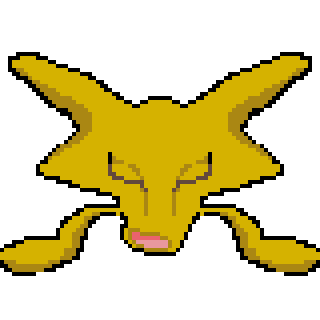
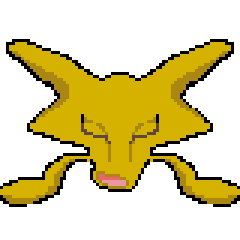
resize pics. Add basic rotating animation

diff --git a/pokeGame.py b/pokeGame.py
@@ -13,7 +13,28 @@ gridWidth =  170
 
 BLACK = (0, 0, 0)
 
+animationSpeed = 15
+centerOffset = 200
+
+locationAngles = [0, 60, 120, 180, 240, 300]
+
+
+locations = [
+    assets.getTrigoFromCenter(0, centerOffset, WINDOWWIDTH, WINDOWHEIGHT),
+    assets.getTrigoFromCenter(60, centerOffset, WINDOWWIDTH, WINDOWHEIGHT),
+    assets.getTrigoFromCenter(120, centerOffset, WINDOWWIDTH, WINDOWHEIGHT),
+    assets.getTrigoFromCenter(180, centerOffset, WINDOWWIDTH, WINDOWHEIGHT),
+    assets.getTrigoFromCenter(240, centerOffset, WINDOWWIDTH, WINDOWHEIGHT),
+    assets.getTrigoFromCenter(300, centerOffset, WINDOWWIDTH, WINDOWHEIGHT)
+    ]
+
+
+
+
+
+
 def main():
+    global FPSCLOCK
     pygame.init()
 
     FPSCLOCK = pygame.time.Clock()
@@ -21,32 +42,62 @@ def main():
     DISPLAYSURF.fill(BLACK)
     pygame.display.set_caption('The PokeBall Game')
 
+    messages = ["He's", "She's", "The cat is", "Tom is", "They're", "I'm"]
+    
+    pokeBalls = generatePokeballs(messages)
 
 
+    spinAnimation(pokeBalls, locationAngles, animationSpeed, DISPLAYSURF)
+    DISPLAYSURF.fill(BLACK)
 
     while True:
+        mouseClick = False
 
         checkForQuit()
+
+        
 
         alakazamImg = assets.alakazam.surface
         alakazamRect = assets.alakazam.rect
 
         alakazamRect.center = (WINDOWWIDTH/2, WINDOWHEIGHT/2)
 
-        messages = ["He's", "She's", "It's", "Tom is", "They're", "I'm"]
         
-        pokeBalls = generatePokeballs(messages)
+        
+        
+
+        # for ball in pokeBalls:
+        #     DISPLAYSURF.blit(ball.surface, ball.rect)
+
+        DISPLAYSURF.blit(alakazamImg, alakazamRect)
+
+
+
+        mouseX, mouseY = pygame.mouse.get_pos()
+
+         
+        for event in pygame.event.get():
+            if event.type == MOUSEBUTTONUP:
+                mouseClick = True
+            
 
         for ball in pokeBalls:
-            DISPLAYSURF.blit(ball.surface, ball.rect)
+            if ball.rect.collidepoint(mouseX, mouseY):
+                if mouseClick:
+                    if ball.state == 'closed':
+                        ball.state = 'open'
+                    elif ball.state == 'open':
+                        ball.state = 'closed'
 
 
         # DISPLAYSURF.blit(pokeBallImg, pokeBallRect)
 
-        DISPLAYSURF.blit(alakazamImg, alakazamRect)
+        # spinAnimation(pokeBalls, locationAngles, animationSpeed, DISPLAYSURF)
+
+        drawPokeBallDefaultLocations(pokeBalls, locationAngles, DISPLAYSURF)
         
 
-        pygame.display.update()
+        pygame.display.flip()
 
         FPSCLOCK.tick(FPS)
 
@@ -67,28 +118,40 @@ def checkForQuit():
 def generatePokeballs(messages):
     random.shuffle(messages)
 
-    locations =((gridWidth*2,gridHeight*2),
-                (gridWidth*2.5,gridHeight), 
-                (gridWidth*3.5, gridHeight), 
-                (gridWidth*4, gridHeight*2), 
-                (gridWidth*3.5, gridHeight*3), 
-                (gridWidth*2.5, gridHeight*3))
-
- 
     pokeObjs = []
-    for n in range(len(locations)):
+    for n in range(len(messages)):
         current = assets.pokeball(assets.pokeballImgs)
         current.message = messages[n]
-        current.state = 'open'
-        pokeRect = current.rect
-        pokeRect.center = locations[n]
+        current.state = 'closed'
         pokeObjs.append(current)
 
     return pokeObjs
 
 
+def drawPokeBallDefaultLocations(pokeballs, locations, targetSurf):
+    for n in range(len(pokeballs)):
+        current = pokeballs[n]
+        current.rect.center = assets.getTrigoFromCenter(locations[n], centerOffset, WINDOWWIDTH, WINDOWHEIGHT)
+        targetSurf.blit(current.surface, current.rect)
 
-     
+def spinAnimation(pokeballs, locations, animationSpeed, targetSurf, rotateTimes=3 ):
+    totalRotation = 360 * rotateTimes
+    origSurf = targetSurf.copy()
+
+    for rotationStep in range(0, totalRotation, animationSpeed):
+        targetSurf.blit(origSurf, (0, 0))
+        for n in range(len(pokeballs)):
+            location = assets.getTrigoFromCenter((locations[n]+rotationStep), centerOffset, WINDOWWIDTH, WINDOWHEIGHT)
+            pokeballs[n].rect.center = location
+            targetSurf.blit(pokeballs[n].surface, pokeballs[n].rect)
+            pygame.display.update()
+        FPSCLOCK.tick(FPS)
+            
+
+
+            
+
+
 
 
 main()

diff --git a/pokeBallAssets.py b/pokeBallAssets.py
@@ -1,4 +1,4 @@
-import pygame, os
+import pygame, os, math
 
 
 
@@ -7,6 +7,10 @@ WHITE           =(255, 255, 255)
 BLACK           =(  0,   0,   0)
 GREEN           =(  0, 200,   0)
 RED             =(255,   0,   0)
+CLEAR           =(  0,   0,   0,   0)
+
+
+backGroundColour = BLACK
 
 pygame.init()
 
@@ -58,19 +62,21 @@ pokeballImgs = {
     'closed' : pygame.image.load(os.path.join(pokeBallPath, 'pokeballClosed.png')),
 }
 
+# quickBall = pokeBallImgs['closed']
 
 def pokeFont(size=20):
     return pygame.font.SysFont('minecraft', size)
 
-pokeBallFont = pokeFont(40)
+pokeBallFont = pokeFont(25)
 
 class pokeball():
-    def __init__(self, pathDict, message=None, state=None, surface=None):
+    def __init__(self, pathDict, message=None, state=None):
         self.path = pathDict
         self.__state = state
         self.__message = message
-        # self.__surface = surface
+        self.__surface = None
         self.rect = self.makeRect()
+       
 
 
     # State Setter/Getter
@@ -95,15 +101,31 @@ class pokeball():
 
     @property
     def surface(self):
+        self.__surface = pygame.Surface((180, 200))
+        self.__surface.convert_alpha
+        self.__surface.fill(CLEAR)
+
         if self.state == 'closed':
-            return self.path['closed']
+            closedBall = self.path['closed']
+            closedBallRect = closedBall.get_rect()
+            closedBallRect.center = (90, 100)
+            self.__surface.blit(closedBall, closedBallRect)
+
+            return self.__surface
+
         else:
             text = pokeBallFont.render(self.message, 1, WHITE)
             messageRect = text.get_rect()
-            messageRect.center = (80, 140)
-            selfSurf = self.path['open'].copy()
-            selfSurf.blit(text, messageRect)
-            return selfSurf
+            messageRect.center = (90, 100)
+
+            openBall = self.path['open'].copy()
+            openBallRect = openBall.get_rect()
+            openBallRect.center = (90, 100)
+
+            self.__surface.blit(openBall, openBallRect)
+            self.__surface.blit(text, messageRect)
+            
+            return self.__surface
 
 
     def makeRect(self):
@@ -137,3 +159,41 @@ class alakazamChar():
         return self.surface.get_rect()
 
 alakazam = alakazamChar(alakazamImg)
+
+
+def degToRadian(deg):
+    return deg * math.pi / 180
+
+def getXcoord(deg, hypo):
+    # The sin of the degree is equal to ANS divided by HYPO
+    # Get sin of degree.
+    # Multiply this number by the HYPO
+    # This will be the length co-ord
+    radA = degToRadian(deg)
+    sinA = math.sin(radA)
+    xLength = sinA * hypo
+
+    return xLength
+
+def getYcoord(deg, hypo):
+    # The same but wit COSINE I think.
+    radA = degToRadian(deg)
+    cosA = math.cos(radA)
+    yLength = cosA * hypo
+    return yLength
+
+def getTrigoXY(deg, hypo):
+    x = getXcoord(deg, hypo)
+    y = getYcoord(deg, hypo)
+    intx = int(x)
+    inty = int(y)
+    return (intx, inty)
+
+def getTrigoFromCenter(deg, hypo, WINDOWWIDTH, WINDOWHEIGHT):
+    trigX, trigY = getTrigoXY(deg, hypo)
+
+    return (trigX + WINDOWWIDTH/2, trigY+WINDOWHEIGHT/2)
+
+
+
+
